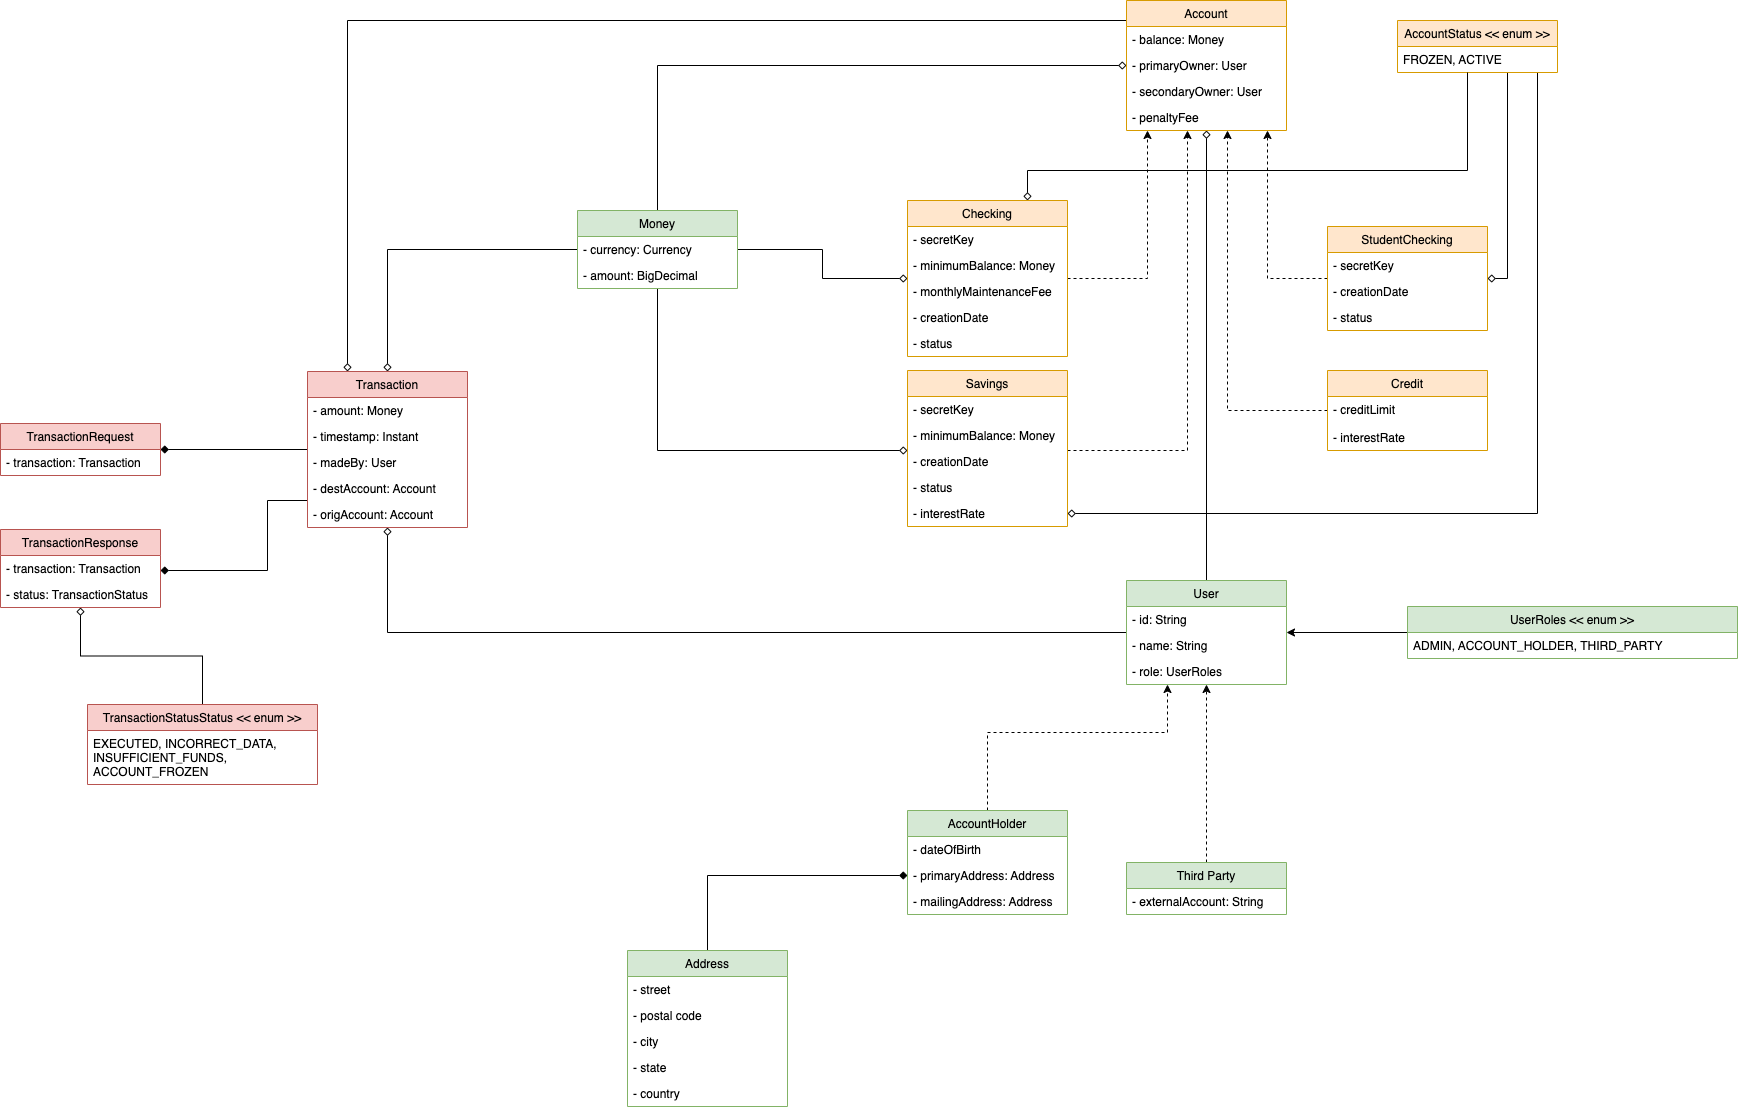
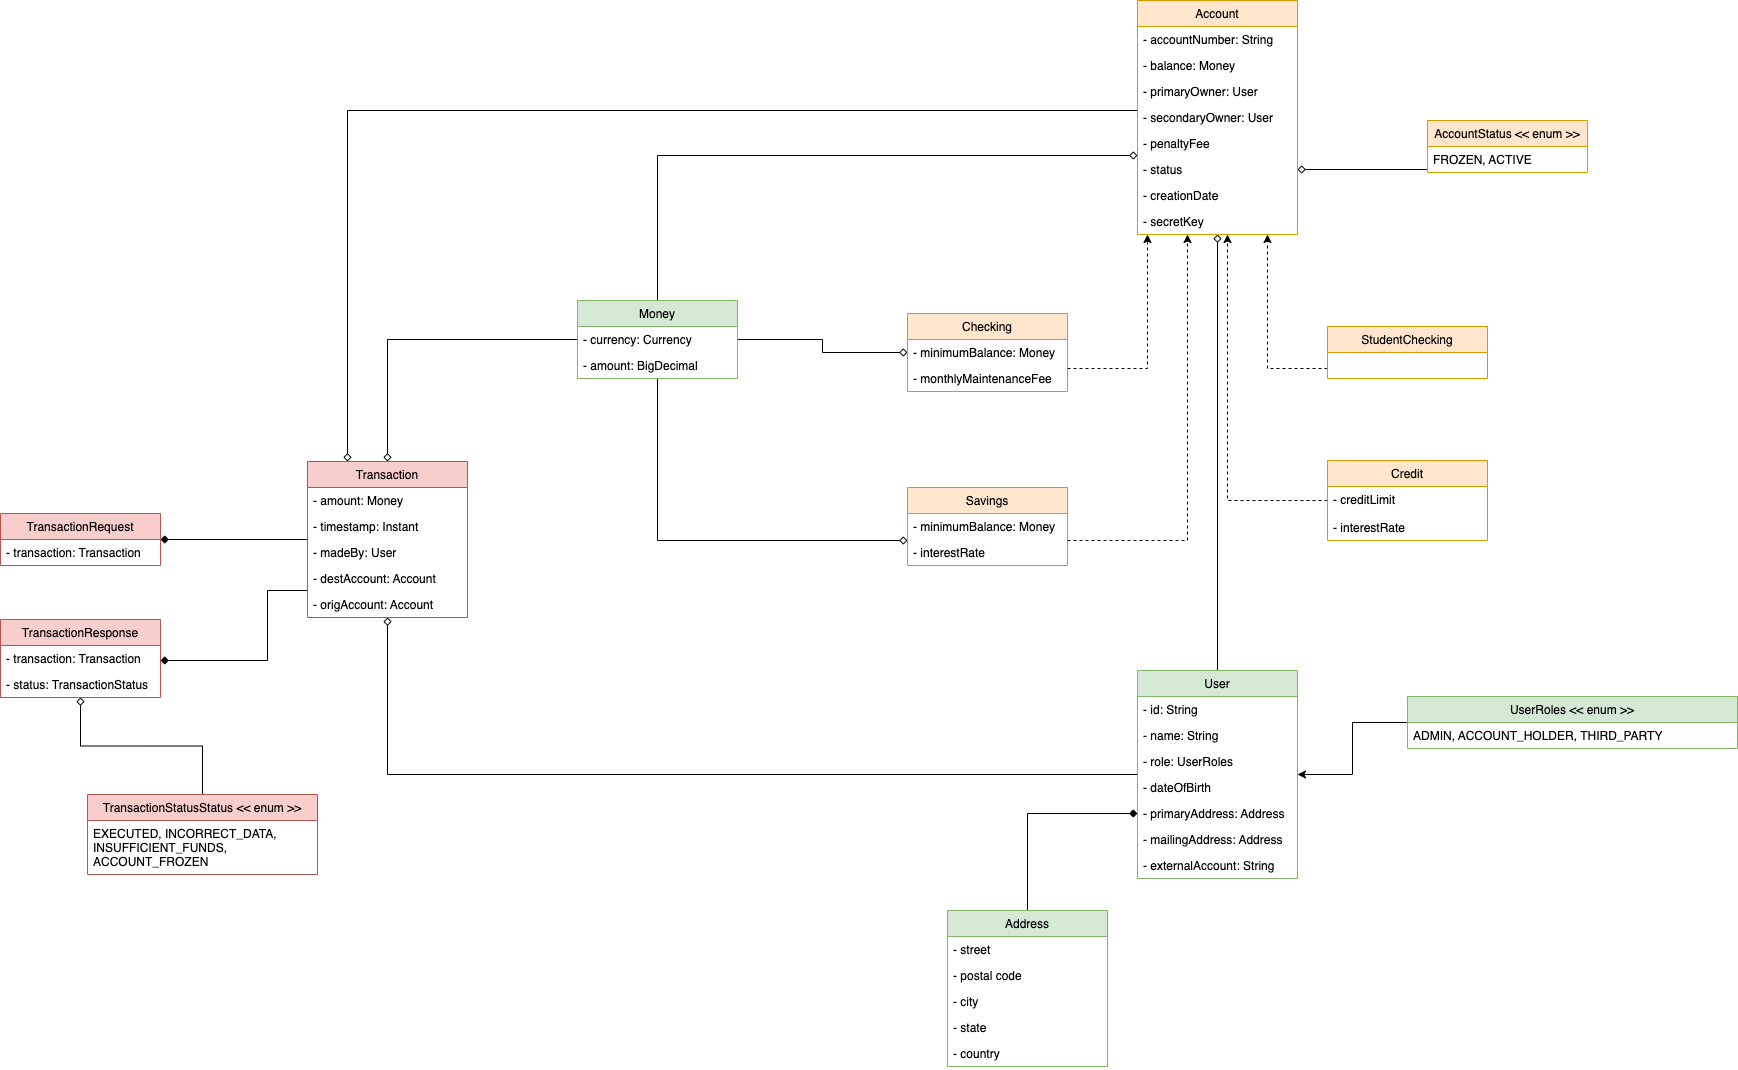
feat: account models

diff --git a/ironbank-api/src/main/java/com/ironhack/ironbankapi/core/model/common/Money.java b/ironbank-api/src/main/java/com/ironhack/ironbankapi/core/model/common/Money.java
@@ -1,0 +1,62 @@
+package com.ironhack.ironbankapi.core.model.common;
+
+import lombok.Getter;
+import lombok.NoArgsConstructor;
+import lombok.Setter;
+
+import javax.persistence.Embeddable;
+import java.math.RoundingMode;
+import java.math.BigDecimal;
+import java.util.Currency;
+
+@Embeddable
+@Getter
+@Setter
+@NoArgsConstructor
+public class Money {
+
+    private static final Currency currency = Currency.getInstance("EUR");
+    private static final RoundingMode DEFAULT_ROUNDING = RoundingMode.HALF_EVEN;
+
+    private BigDecimal amount;
+
+    /**
+     * Class constructor specifying amount, currency, and rounding
+     **/
+
+    public Money(BigDecimal amount, RoundingMode rounding) {
+        setAmount(amount.setScale(currency.getDefaultFractionDigits(), rounding));
+    }
+
+    /**
+     * Class constructor specifying amount, and currency. Uses default RoundingMode HALF_EVEN.
+     **/
+    public Money(BigDecimal amount) {
+        this(amount, DEFAULT_ROUNDING);
+    }
+
+
+    public BigDecimal increaseAmount(Money money) {
+        setAmount(this.amount.add(money.amount));
+        return this.amount;
+    }
+
+    public BigDecimal increaseAmount(BigDecimal addAmount) {
+        setAmount(this.amount.add(addAmount));
+        return this.amount;
+    }
+
+    public BigDecimal decreaseAmount(Money money) {
+        setAmount(this.amount.subtract(money.getAmount()));
+        return this.amount;
+    }
+
+    public BigDecimal decreaseAmount(BigDecimal addAmount) {
+        setAmount(this.amount.subtract(addAmount));
+        return this.amount;
+    }
+
+    public String toString() {
+        return currency.getSymbol() + " " + getAmount();
+    }
+}

diff --git a/ironbank-api/src/main/java/com/ironhack/ironbankapi/core/model/account/Account.java b/ironbank-api/src/main/java/com/ironhack/ironbankapi/core/model/account/Account.java
@@ -1,0 +1,45 @@
+package com.ironhack.ironbankapi.core.model.account;
+
+import com.ironhack.ironbankapi.core.model.common.Money;
+import com.ironhack.ironbankapi.core.model.user.User;
+import lombok.AllArgsConstructor;
+import lombok.Getter;
+import lombok.NoArgsConstructor;
+import lombok.Setter;
+
+import javax.persistence.*;
+import java.time.Instant;
+
+@NoArgsConstructor
+@AllArgsConstructor
+@Getter
+@Setter
+@MappedSuperclass
+public abstract class Account {
+
+    @Id
+    @Column(nullable = false)
+    private String accountNumber;
+
+    @Embedded
+    @AttributeOverride(name = "amount", column = @Column(name = "balance"))
+    private Money balance;
+
+    @ManyToOne
+    @JoinColumn(name = "primary_owner_id")
+    private User primaryOwner;
+
+    @ManyToOne
+    @JoinColumn(name = "seconday_owner_id")
+    private User secondayOwner;
+
+    @Embedded
+    @AttributeOverride(name = "amount", column = @Column(name = "penalty_fee"))
+    private Money penaltyFee;
+
+    @Enumerated(EnumType.STRING)
+    private AccountStatus status;
+    private Instant creationDate;
+    private String secretKey;
+
+}

diff --git a/ironbank-api/src/main/java/com/ironhack/ironbankapi/core/model/account/StudentCheckingAccount.java b/ironbank-api/src/main/java/com/ironhack/ironbankapi/core/model/account/StudentCheckingAccount.java
@@ -1,0 +1,20 @@
+package com.ironhack.ironbankapi.core.model.account;
+
+import com.ironhack.ironbankapi.core.model.account.Account;
+import com.ironhack.ironbankapi.core.model.common.Money;
+import com.ironhack.ironbankapi.core.model.user.User;
+import lombok.*;
+
+import javax.persistence.Entity;
+import java.time.Instant;
+
+@Entity
+@NoArgsConstructor
+@Getter
+@Setter
+public class StudentCheckingAccount extends Account {
+
+    public StudentCheckingAccount(String accountNumber, Money balance, User primaryOwner, User secondayOwner, Money penaltyFee, AccountStatus status, Instant creationDate, String secretKey) {
+        super(accountNumber, balance, primaryOwner, secondayOwner, penaltyFee, status, creationDate, secretKey);
+    }
+}

diff --git a/ironbank-api/src/main/java/com/ironhack/ironbankapi/core/model/account/CheckingAccount.java b/ironbank-api/src/main/java/com/ironhack/ironbankapi/core/model/account/CheckingAccount.java
@@ -1,0 +1,25 @@
+package com.ironhack.ironbankapi.core.model.account;
+
+import com.ironhack.ironbankapi.core.model.common.Money;
+import lombok.*;
+
+import javax.persistence.AttributeOverride;
+import javax.persistence.Column;
+import javax.persistence.Embedded;
+import javax.persistence.Entity;
+
+@Entity
+@NoArgsConstructor
+@AllArgsConstructor
+@Getter
+@Setter
+public class CheckingAccount extends Account{
+
+    @Embedded
+    @AttributeOverride(name = "amount", column = @Column(name = "minimum_balance"))
+    private Money minimumBalance;
+    @Embedded
+    @AttributeOverride(name = "amount", column = @Column(name = "monthly_maintenance_fee"))
+    private Money monthlyMaintenanceFee;
+
+}

diff --git a/ironbank-api/src/main/java/com/ironhack/ironbankapi/core/model/account/SavingsAccount.java b/ironbank-api/src/main/java/com/ironhack/ironbankapi/core/model/account/SavingsAccount.java
@@ -1,0 +1,23 @@
+package com.ironhack.ironbankapi.core.model.account;
+
+import com.ironhack.ironbankapi.core.model.common.Money;
+import lombok.*;
+
+import javax.persistence.AttributeOverride;
+import javax.persistence.Column;
+import javax.persistence.Embedded;
+import javax.persistence.Entity;
+
+@Entity
+@NoArgsConstructor
+@AllArgsConstructor
+@Getter
+@Setter
+public class SavingsAccount extends Account {
+
+    @Embedded
+    @AttributeOverride(name = "amount", column = @Column(name = "minimum_balance"))
+    private Money minimumBalance;
+    private double interestRate;
+
+}

diff --git a/ironbank-api/src/main/java/com/ironhack/ironbankapi/core/model/account/CreditAccount.java b/ironbank-api/src/main/java/com/ironhack/ironbankapi/core/model/account/CreditAccount.java
@@ -1,0 +1,21 @@
+package com.ironhack.ironbankapi.core.model.account;
+
+import com.ironhack.ironbankapi.core.model.common.Money;
+import lombok.*;
+
+import javax.persistence.AttributeOverride;
+import javax.persistence.Column;
+import javax.persistence.Embedded;
+import javax.persistence.Entity;
+
+@Entity
+@NoArgsConstructor
+@AllArgsConstructor
+@Getter
+@Setter
+public class CreditAccount extends Account{
+    @Embedded
+    @AttributeOverride(name = "amount", column = @Column(name = "credit_limit"))
+    private Money creditLimit;
+    private double interestRate;
+}

diff --git a/ironbank-api/src/main/java/com/ironhack/ironbankapi/auth/mapper/UserMapper.java b/ironbank-api/src/main/java/com/ironhack/ironbankapi/auth/mapper/UserMapper.java
@@ -4,8 +4,8 @@ import com.ironhack.ironbankapi.auth.dto.create_user.CreateAccountHolderDto;
 import com.ironhack.ironbankapi.auth.dto.create_user.CreateAdminDto;
 import com.ironhack.ironbankapi.auth.dto.create_user.CreateThirdPartyDto;
 import com.ironhack.ironbankapi.auth.dto.keycloak.KeycloakUserDto;
-import com.ironhack.ironbankapi.auth.model.Address;
-import com.ironhack.ironbankapi.auth.model.User;
+import com.ironhack.ironbankapi.core.model.user.Address;
+import com.ironhack.ironbankapi.core.model.user.User;
 
 public abstract class UserMapper {
 

diff --git a/ironbank-api/src/main/java/com/ironhack/ironbankapi/auth/controller/UserController.java b/ironbank-api/src/main/java/com/ironhack/ironbankapi/auth/controller/UserController.java
@@ -5,7 +5,7 @@ import com.ironhack.ironbankapi.auth.dto.create_user.CreateAdminDto;
 import com.ironhack.ironbankapi.auth.dto.create_user.CreateThirdPartyDto;
 import com.ironhack.ironbankapi.auth.exceptions.IronbankAuthException;
 import com.ironhack.ironbankapi.auth.mapper.UserMapper;
-import com.ironhack.ironbankapi.auth.model.UserRole;
+import com.ironhack.ironbankapi.core.model.user.UserRole;
 import com.ironhack.ironbankapi.auth.service.UserService;
 import org.springframework.http.HttpStatus;
 import org.springframework.web.bind.annotation.*;

diff --git a/ironbank-api/src/main/java/com/ironhack/ironbankapi/auth/service/UserService.java b/ironbank-api/src/main/java/com/ironhack/ironbankapi/auth/service/UserService.java
@@ -2,7 +2,7 @@ package com.ironhack.ironbankapi.auth.service;
 
 import com.ironhack.ironbankapi.auth.exceptions.IronbankAuthException;
 import com.ironhack.ironbankapi.auth.mapper.UserMapper;
-import com.ironhack.ironbankapi.auth.model.User;
+import com.ironhack.ironbankapi.core.model.user.User;
 import com.ironhack.ironbankapi.auth.repository.user.UserRepository;
 import org.springframework.stereotype.Service;
 

diff --git a/ironbank-api/src/main/java/com/ironhack/ironbankapi/auth/repository/user/UserRepository.java b/ironbank-api/src/main/java/com/ironhack/ironbankapi/auth/repository/user/UserRepository.java
@@ -1,6 +1,6 @@
 package com.ironhack.ironbankapi.auth.repository.user;
 
-import com.ironhack.ironbankapi.auth.model.User;
+import com.ironhack.ironbankapi.core.model.user.User;
 import org.springframework.data.jpa.repository.JpaRepository;
 import org.springframework.stereotype.Repository;
 

diff --git a/ironbank-api/src/main/java/com/ironhack/ironbankapi/auth/dto/create_user/CreateUserDto.java b/ironbank-api/src/main/java/com/ironhack/ironbankapi/auth/dto/create_user/CreateUserDto.java
@@ -1,7 +1,7 @@
 package com.ironhack.ironbankapi.auth.dto.create_user;
 
 
-import com.ironhack.ironbankapi.auth.model.UserRole;
+import com.ironhack.ironbankapi.core.model.user.UserRole;
 import lombok.*;
 
 import javax.validation.constraints.NotEmpty;

diff --git a/ironbank-api/src/main/java/com/ironhack/ironbankapi/auth/dto/create_user/CreateAdminDto.java b/ironbank-api/src/main/java/com/ironhack/ironbankapi/auth/dto/create_user/CreateAdminDto.java
@@ -1,6 +1,6 @@
 package com.ironhack.ironbankapi.auth.dto.create_user;
 
-import com.ironhack.ironbankapi.auth.model.UserRole;
+import com.ironhack.ironbankapi.core.model.user.UserRole;
 import lombok.*;
 
 import javax.validation.constraints.NotEmpty;
